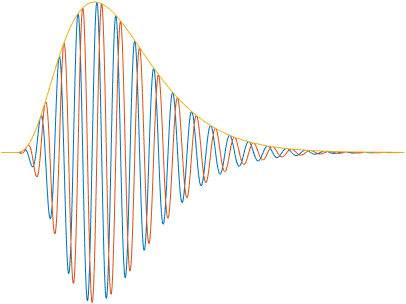
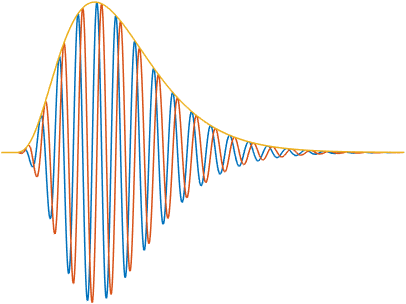
line width to 1.5

Changed region(s): [[0.0, 0.0, 1.0, 1.0]]

diff --git a/figs/wavelets/gammatone.m b/figs/wavelets/gammatone.m
@@ -1,4 +1,5 @@
 nfo = 8;
+line_width = 1.5;
 
 opts{1}.time.nFilters_per_octave = nfo;
 opts{1}.time.size = 2^19;
@@ -26,10 +27,9 @@ psi2_ift = ifftshift(ifft(psi2_ft));
 psi2_ift = psi2_ift((end/2) + (-3000:10000));
 psi2 = [real(psi2_ift),imag(psi2_ift),abs(psi2_ift)];
 
-figure(1);
-plot(psi1)
+plot(psi1, 'LineWidth', line_width)
 axis off
 export_fig -transparent gammatone_Q8.png
-plot(psi2)
+plot(psi2, 'LineWidth', line_width);
 axis off
 export_fig -transparent gammatone_Q1.png
